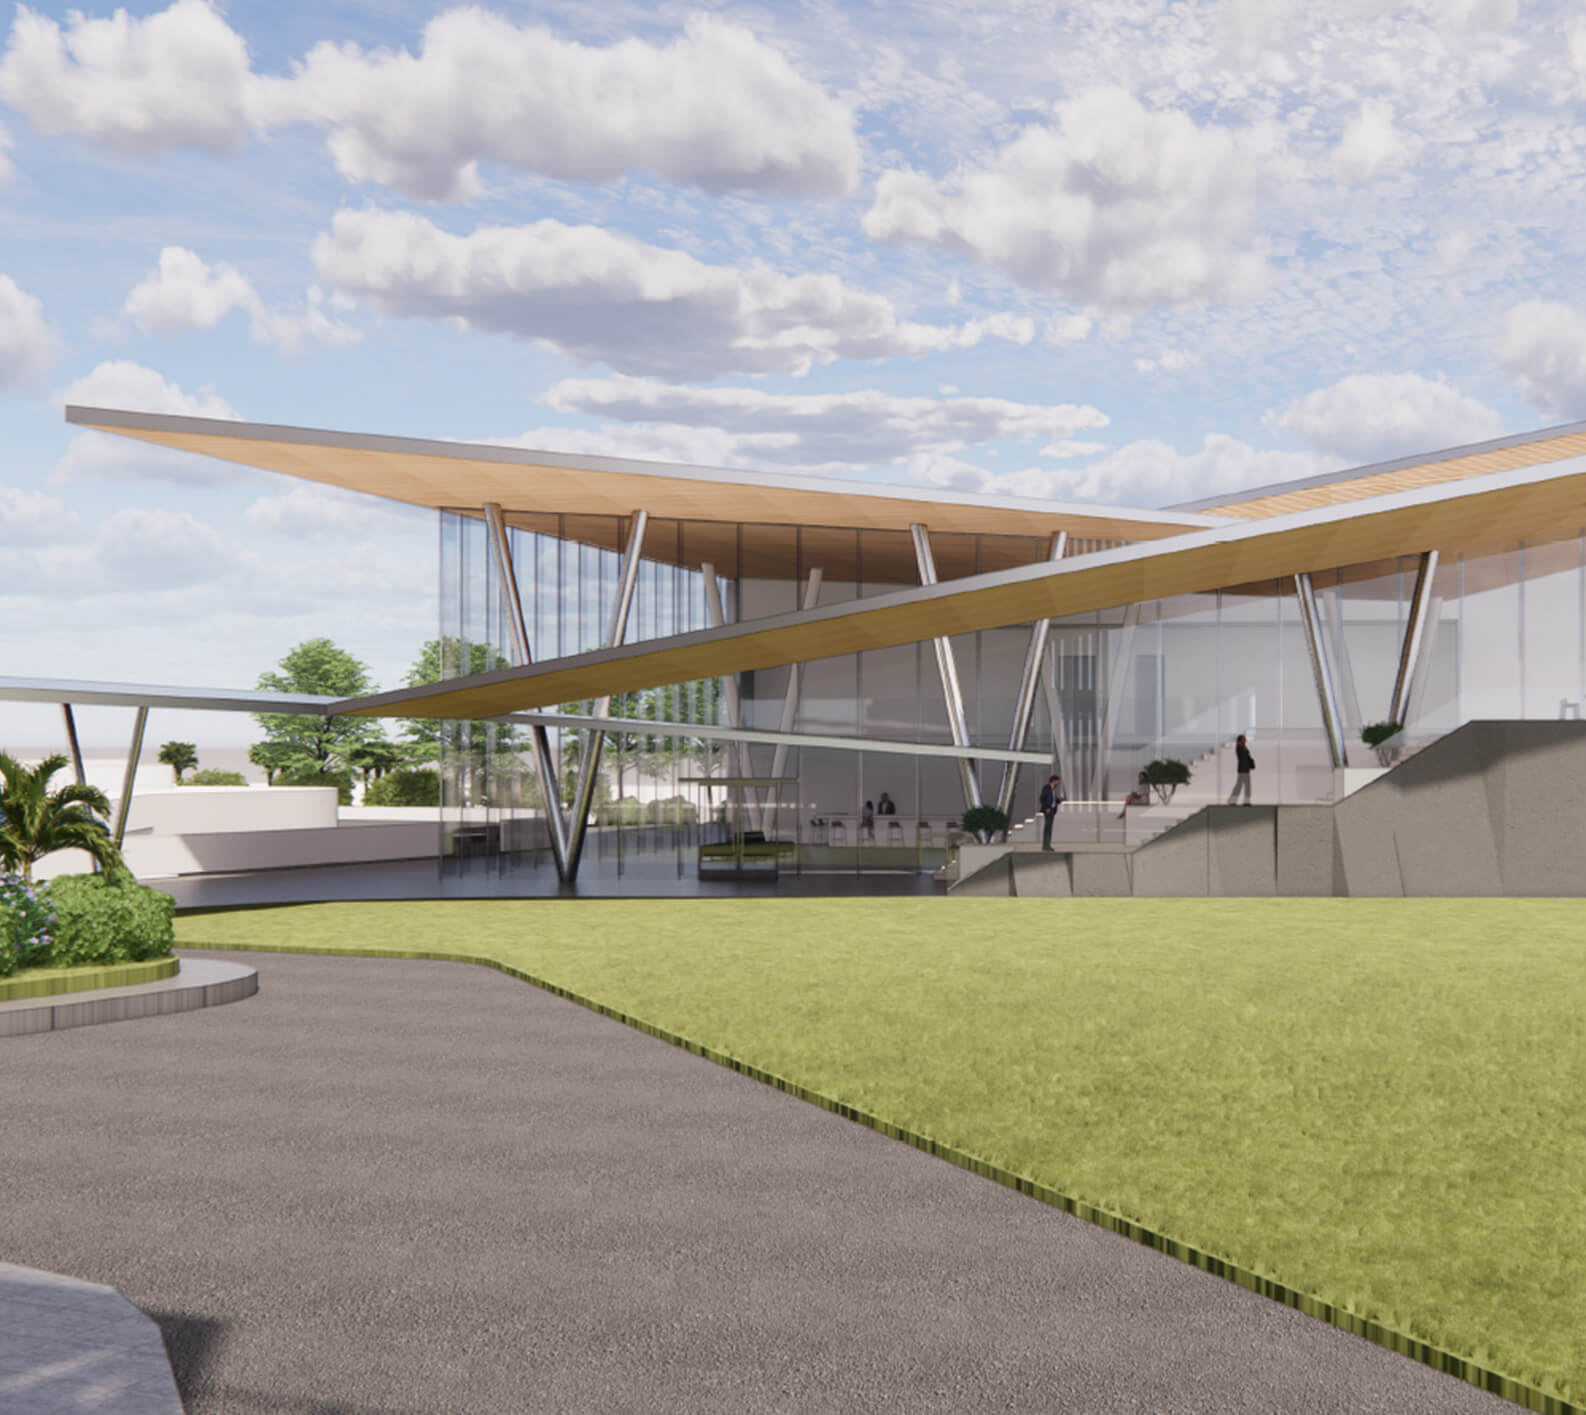
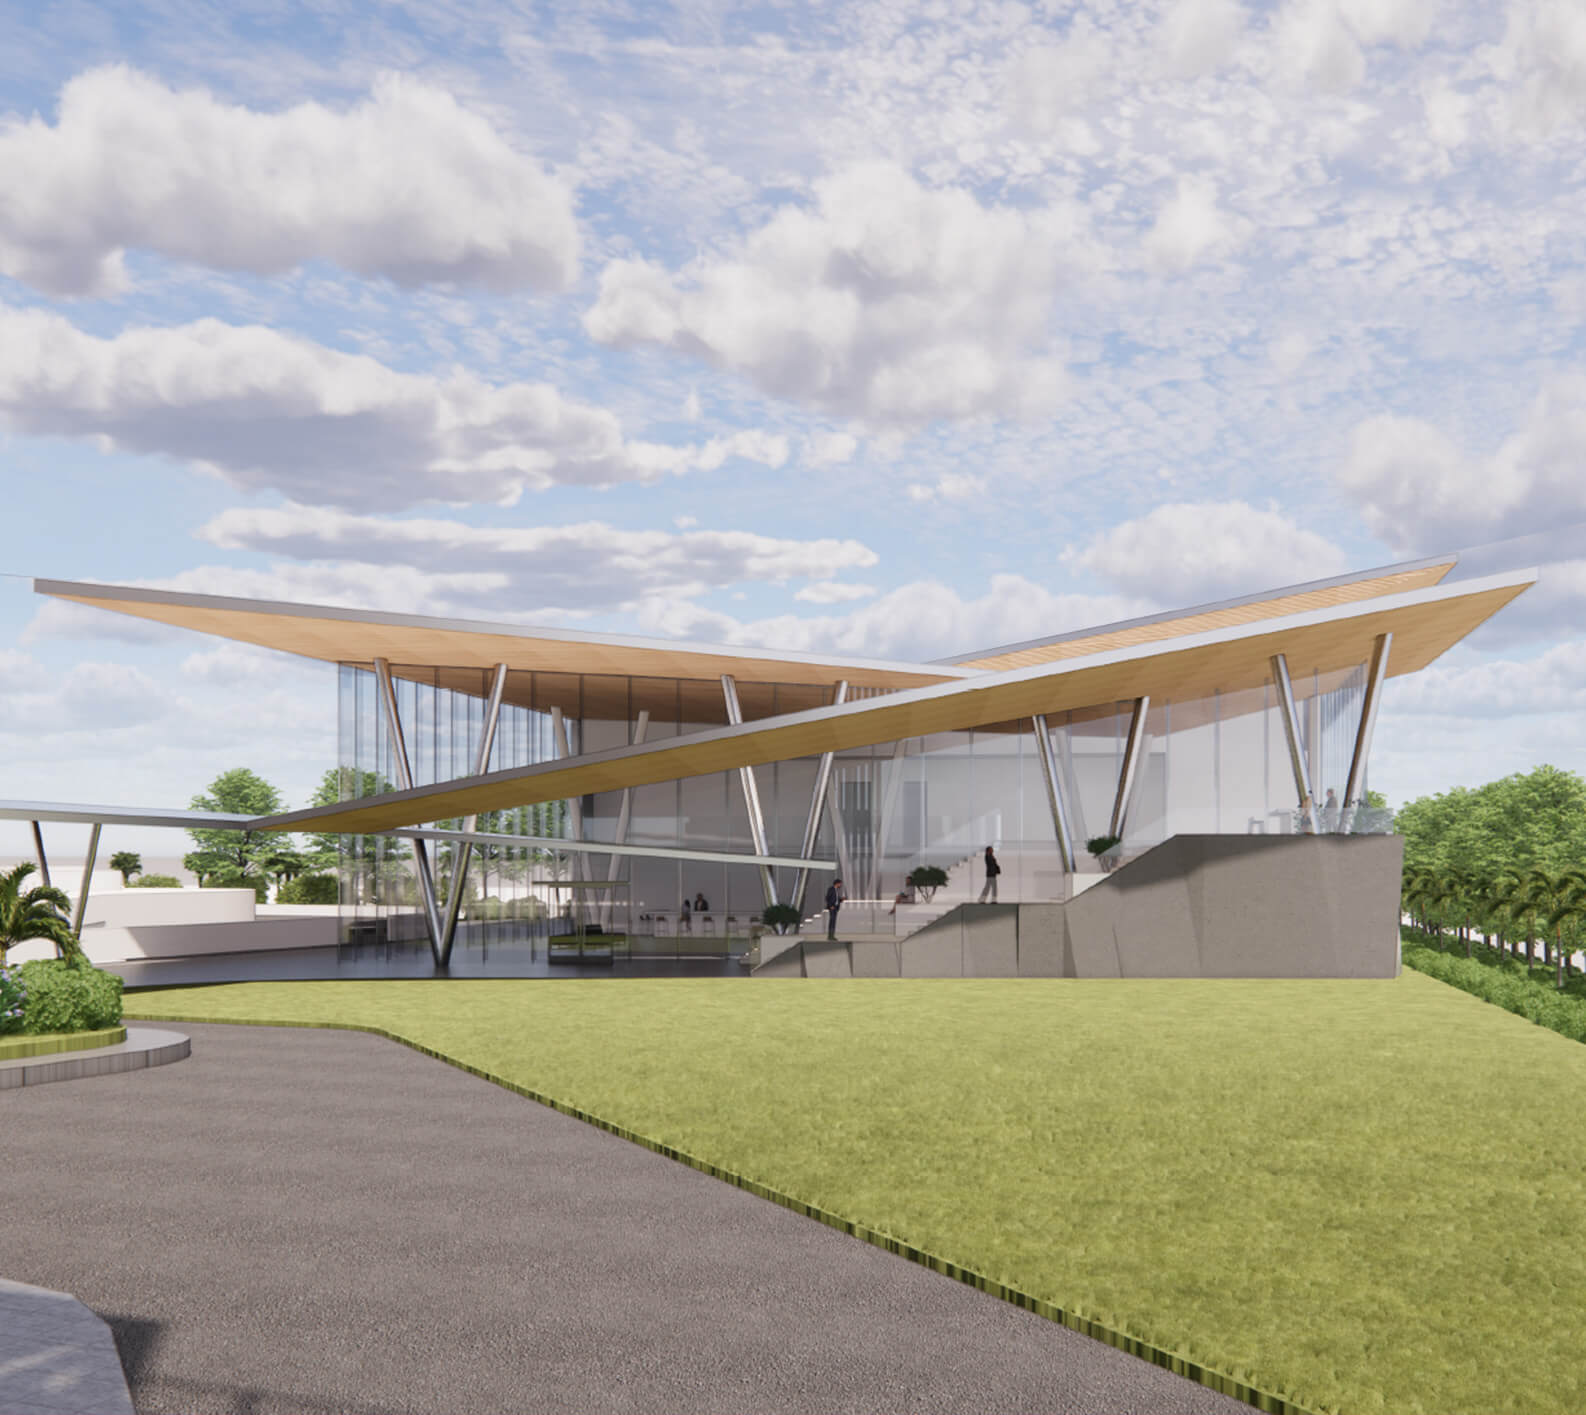
updates santamonica page

diff --git a/st-theresia-new-pastoral-building.html b/st-theresia-new-pastoral-building.html
@@ -314,8 +314,8 @@
                                 <div class="card-project-detail">
                                     <div class="psliderone">
                                         <div class="slidespone">
-                                          <div class="slidepone active" style="background-image: url('assets/images/projects/st-theresia-new-pastoral-building/thumbnail-projects-institutional-st-theresia-new-pastoral-building-1.jpg'); background-repeat:no-repeat;"></div>
-                                          <div class="slidepone" style="background-image: url('assets/images/projects/st-theresia-new-pastoral-building/thumbnail-projects-institutional-st-theresia-new-pastoral-building-2.jpg');background-repeat: no-repeat;"></div>
+                                          <div class="slidepone active" style="background-image: url('assets/images/projects/st-theresia-new-pastoral-building/thumbnail-projects-institutional-st-theresia-new-pastoral-building-2.jpg'); background-repeat:no-repeat;"></div>
+                                          <div class="slidepone" style="background-image: url('assets/images/projects/st-theresia-new-pastoral-building/thumbnail-projects-institutional-st-theresia-new-pastoral-building-1.jpg');background-repeat: no-repeat;"></div>
                                           <div class="slidepone" style="background-image: url('assets/images/projects/st-theresia-new-pastoral-building/thumbnail-projects-institutional-st-theresia-new-pastoral-building-3.jpg');background-repeat: no-repeat;"></div>
                                         </div>
                                     </div>

diff --git a/santa-monica-palace-international.html b/santa-monica-palace-international.html
@@ -314,8 +314,8 @@
                                 <div class="card-project-detail">
                                     <div class="psliderone">
                                         <div class="slidespone">
-                                          <div class="slidepone active" style="background-image: url('assets/images/projects/the-robinsons/thumbnail-projects-office-building-the-robinsons-1.jpg'); background-repeat:no-repeat;"></div>
-                                          <!-- <div class="slidepone" style="background-image: url('assets/images/projects/the-robinsons/thumbnail-projects-retail-facilities-de-veranda-2.jpg');background-repeat: no-repeat;"></div> -->
+                                          <div class="slidepone active" style="background-image: url('assets/images/projects/santa-monica-palace/thumbnail-projects-retail-facilities-santa-monica-palace-1.jpg'); background-repeat:no-repeat;"></div>
+                                          <div class="slidepone" style="background-image: url('assets/images/projects/santa-monica-palace/thumbnail-projects-retail-facilities-santa-monica-palace-2.jpg');background-repeat: no-repeat;"></div>
                                           <!-- <div class="slidepone" style="background-image: url('assets/images/projects/the-robinsons/thumbnail-projects-retail-facilities-de-veranda-3.jpg');background-repeat: no-repeat;"></div> -->
                                         </div>
                                     </div>

diff --git a/santa-monica-palace.html b/santa-monica-palace.html
@@ -314,8 +314,8 @@
                                 <div class="card-project-detail">
                                     <div class="psliderone">
                                         <div class="slidespone">
-                                          <div class="slidepone active" style="background-image: url('assets/images/projects/the-robinsons/thumbnail-projects-office-building-the-robinsons-1.jpg'); background-repeat:no-repeat;"></div>
-                                          <!-- <div class="slidepone" style="background-image: url('assets/images/projects/the-robinsons/thumbnail-projects-retail-facilities-de-veranda-2.jpg');background-repeat: no-repeat;"></div> -->
+                                          <div class="slidepone active" style="background-image: url('assets/images/projects/santa-monica-palace/thumbnail-projects-retail-facilities-santa-monica-palace-1.jpg'); background-repeat:no-repeat;"></div>
+                                          <div class="slidepone" style="background-image: url('assets/images/projects/santa-monica-palace/thumbnail-projects-retail-facilities-santa-monica-palace-2.jpg');background-repeat: no-repeat;"></div>
                                           <!-- <div class="slidepone" style="background-image: url('assets/images/projects/the-robinsons/thumbnail-projects-retail-facilities-de-veranda-3.jpg');background-repeat: no-repeat;"></div> -->
                                         </div>
                                     </div>

diff --git a/erha-clinic.html b/erha-clinic.html
@@ -314,8 +314,8 @@
                                 <div class="card-project-detail">
                                     <div class="psliderone">
                                         <div class="slidespone">
-                                          <div class="slidepone active" style="background-image: url('assets/images/projects/erha-clinic/thumbnail-projects-medical-facilities-erha-clinic-2.jpg'); background-repeat:no-repeat;"></div>
-                                          <div class="slidepone" style="background-image: url('assets/images/projects/erha-clinic/thumbnail-projects-medical-facilities-erha-clinic-1.jpg');background-repeat: no-repeat;"></div>
+                                          <div class="slidepone active" style="background-image: url('assets/images/projects/erha-clinic/thumbnail-projects-medical-facilities-erha-clinic-1.jpg'); background-repeat:no-repeat;"></div>
+                                          <div class="slidepone" style="background-image: url('assets/images/projects/erha-clinic/thumbnail-projects-medical-facilities-erha-clinic-2.jpg');background-repeat: no-repeat;"></div>
                                           <div class="slidepone" style="background-image: url('assets/images/projects/erha-clinic/thumbnail-projects-medical-facilities-erha-clinic-3.jpg');background-repeat: no-repeat;"></div>
                                         </div>
                                     </div>

diff --git a/our-projects-apartments.html b/our-projects-apartments.html
@@ -397,7 +397,7 @@
                                                 <img src="assets/images/projects/apartments/thumbnail-projects-apartments-u-res-6-7.jpg" alt="U Residence 6, 7 apartment by SURADJIN SUTJIPTO, INC. - CONSULTING STRUCTURAL ENGINEERS">
                                             </div>
                                             <div class="caption-title-projects">
-                                                <h2>U Residence 6, 7</h2>
+                                                <h2>U Residence 6 & 7</h2>
                                             </div>
                                         </a>
                                     </div>
@@ -537,28 +537,6 @@
         }
     });
     // HAMBURGER MENU END    
-
-    // CLIENTS HOME
-    $('.slick.marquee').slick({
-        speed: 7000,
-        autoplay: true,
-        autoplaySpeed: 0,
-        centerMode: false,
-        cssEase: 'linear',
-        slidesToShow: 1,
-        draggable:false,
-        focusOnSelect:false,
-        pauseOnFocus:false,
-        pauseOnHover:false,
-        slidesToScroll: 1,
-        variableWidth: true,
-        infinite: true,
-        initialSlide: 1,
-        arrows: false,
-        buttons: false
-    });
-
-
 
 
     // Lenis smooth scrolling
